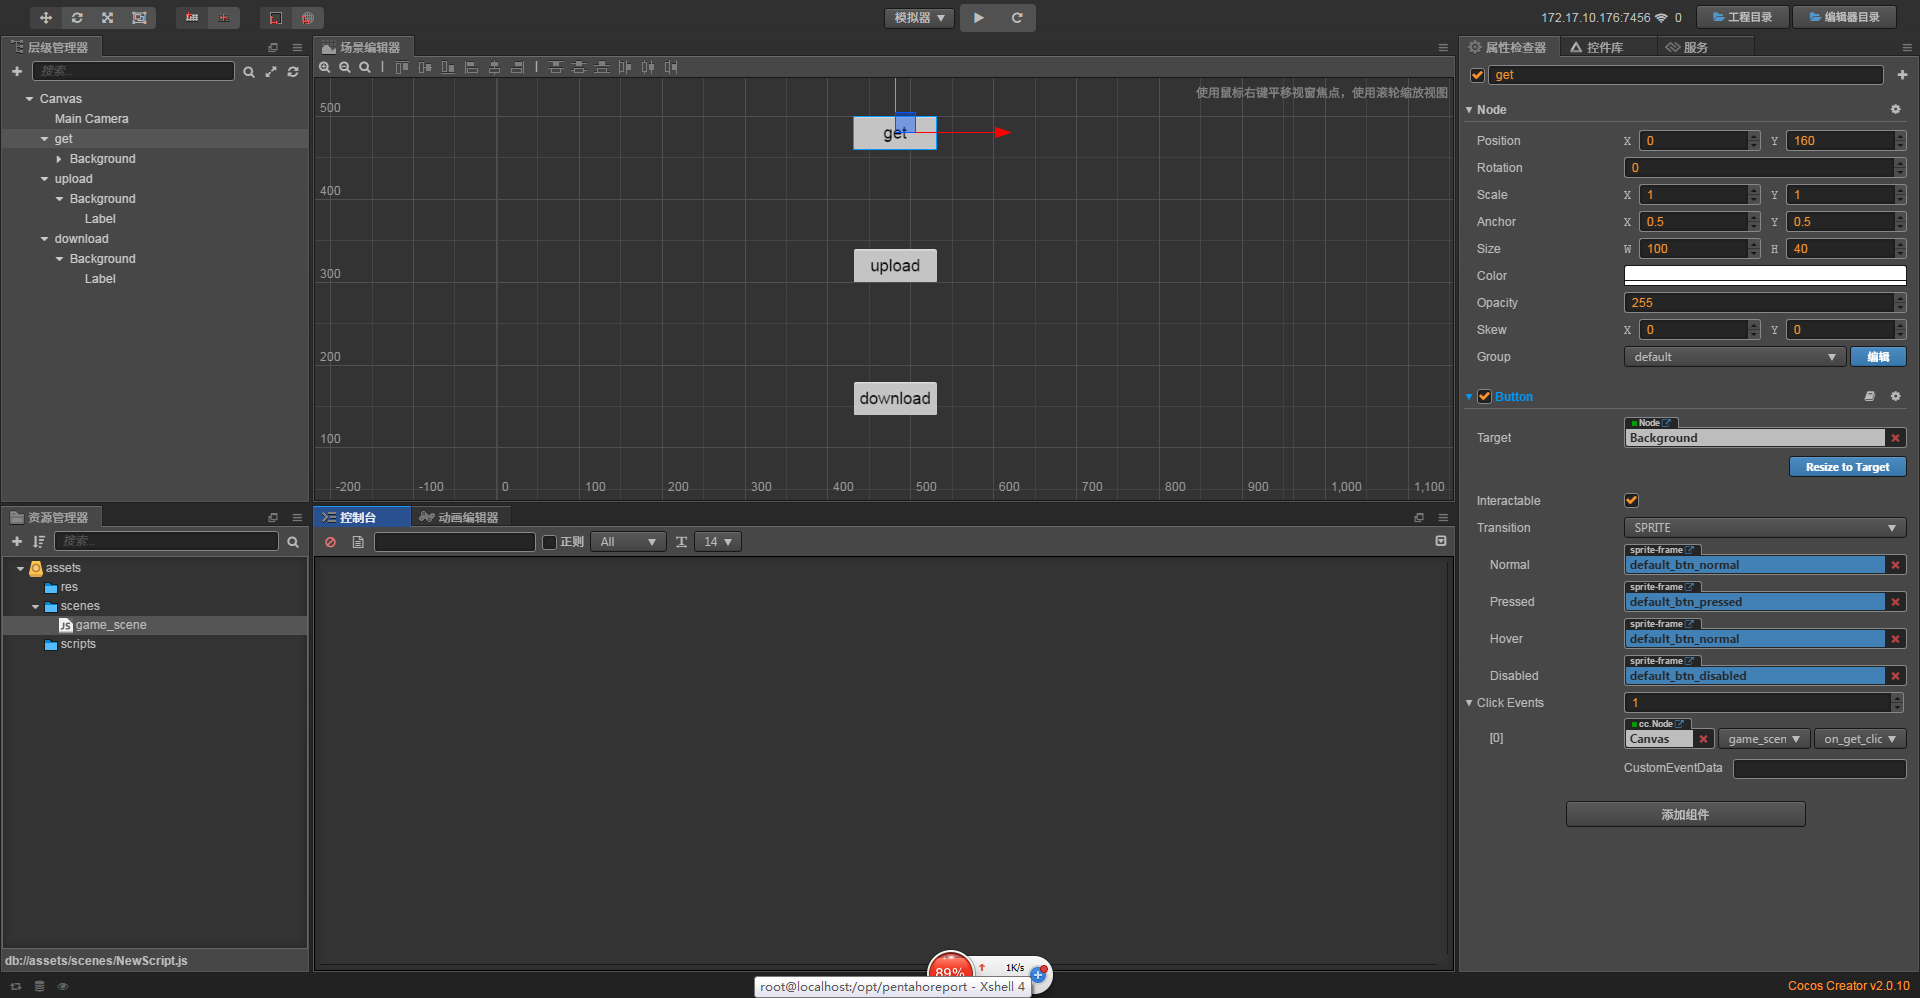
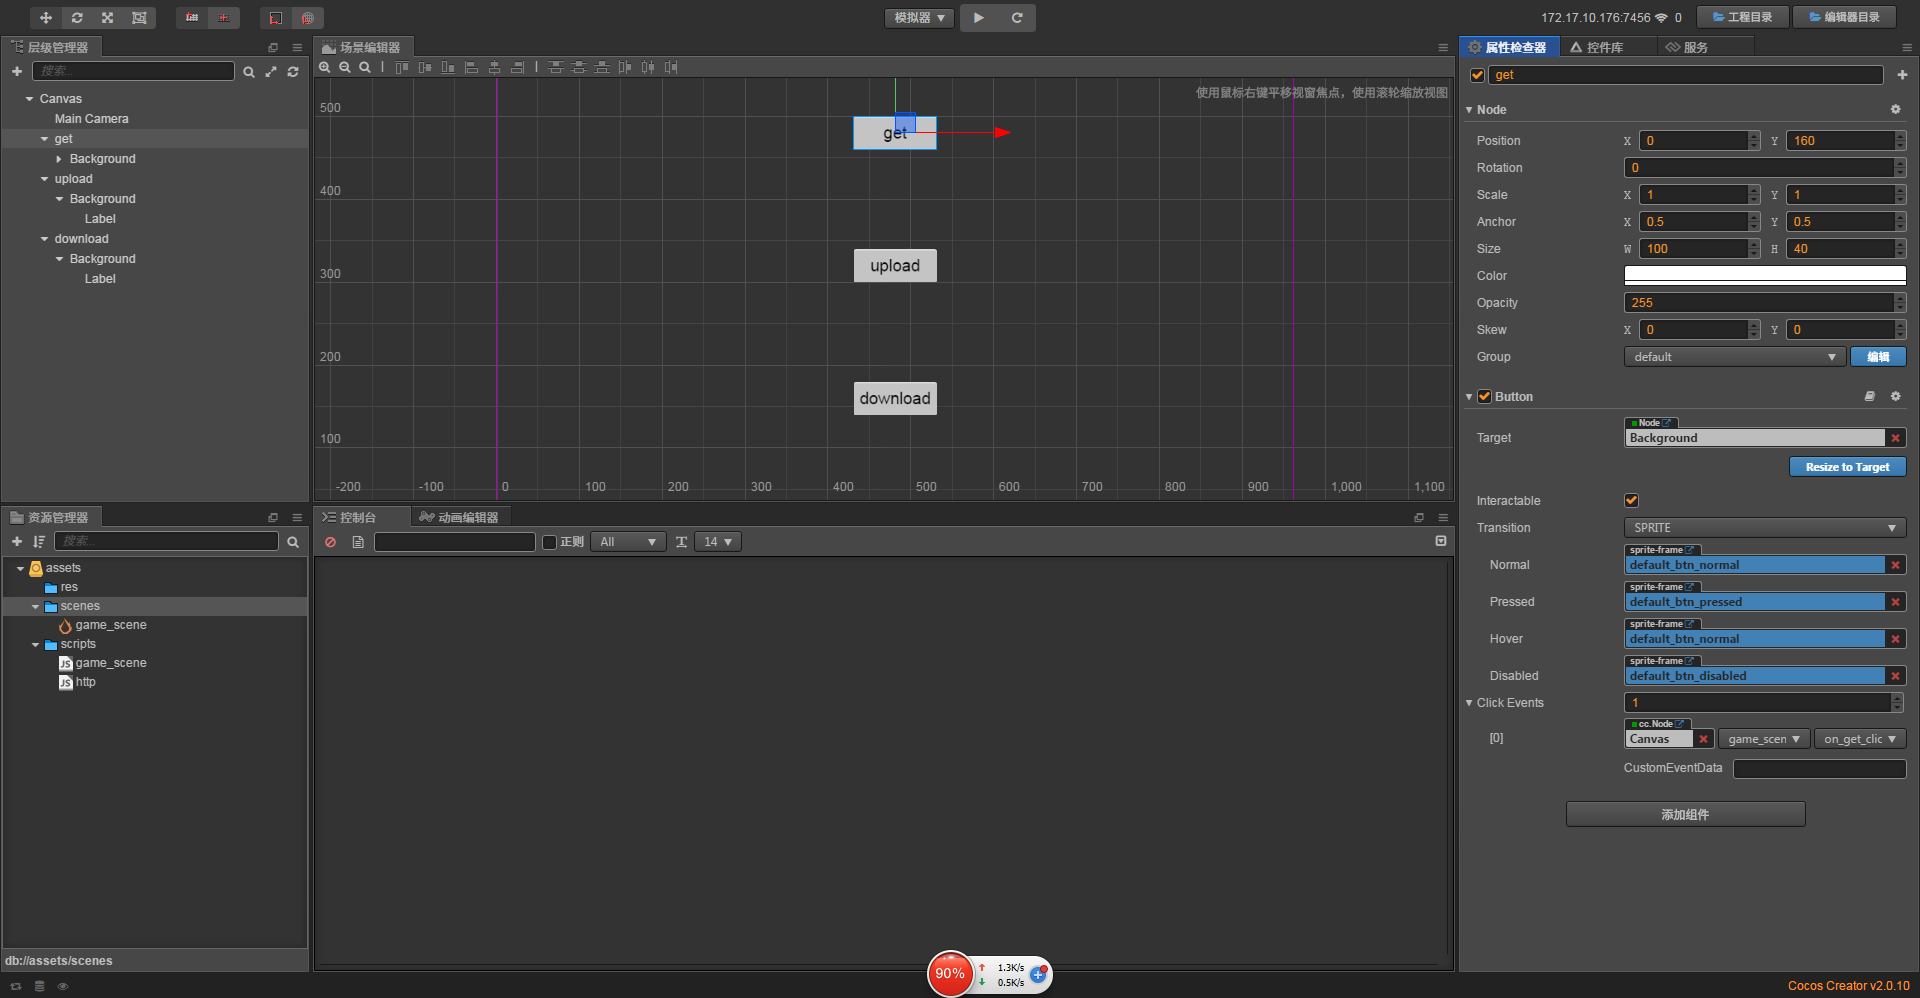
完成获取数据，上传图片练习

diff --git a/day-028-HttpClient/webserver/webserver.js b/day-028-HttpClient/webserver/webserver.js
@@ -16,12 +16,12 @@ app.all('*', function(req, res, next) {
 app.use(express.static(path.join(process.cwd(), "www_root")));
 app.listen(6080);
 
-app.get("/get", function (request, respones) {
+app.get("/get", function (request, response) {
 	console.log(request.query);
-	respones.send("HelloWorld!!!!");
+    response.send("HelloWorld!!!!");
 });
 
-app.post("/upload", function (request, respones) {
+app.post("/upload", function (request, response) {
 	request.now_len = 0;
 	
 	var file_name = "./upload/" + request.query.name;	
@@ -30,25 +30,29 @@ app.post("/upload", function (request, respones) {
 
 	request.on("data", function(data) {
 		request.now_len += data.length;
-		fs.write(fd, data, 0, data.length);
+		fs.write(fd, data, function(){
+
+		});
 	});
 
 	request.on("end", function() {
 		console.log("upload file " + request.query.name + " SUCCESS");
-		fs.close(fd);
+		fs.close(fd, function(){
 
-		respones.send("OK");
+		});
+
+        response.send("OK");
 	});
 });
 
-app.get("/download", function(request, respones) {
+app.get("/download", function(request, response) {
 	var file_name = "./upload/" + request.query.name;
 
 	fs.readFile(file_name, function(err, data) {
 		if (err) {
-			respones.send("file_err !");
+            response.send("file_err !");
 			return;
 		}
-		respones.send(data);
+        response.send(data);
 	});
 });

diff --git a/day-028-HttpClient/01-HttpClient.md b/day-028-HttpClient/01-HttpClient.md
@@ -55,6 +55,66 @@
         
     4. 我们可以先运行下，点击按钮，看下是否绑定到对应的方法上了，事实证明没什么问题
     
-        ![](./images/看控制台打印消息.jpg)       
+        ![](./images/看控制台打印消息.jpg)   
+
+2. 服务器(后端)代码已经写好了，大家可以直接用，进入webserver目录，输入指令`node webserver.js`即可，源码小伙伴们自行研究
+3. 前端也帮大家封装好了http.js，在scripts文件夹中，我们拷贝到res中的scripts文件夹，同样源码小伙伴自行研究
+    * 在game_scene要引用这个http的模块
+    * 具体代码 `const http = require("http");`       
+4. get请求，一般获取数据都是用这个
+    1. 编写代码
+        ```
+        on_get_click(){
+            console.log("get");
+            http.get("http://localhost:6080", "/get", "name=gqf&age=27", function(err, ret){
+                if(err){
+                    console.log(err)
+                    return;
+                }
+                console.log(ret);
+            })
+        },
+        ```
+    2. 运行看结果
+        1. 模拟器的控制台收到了服务器返回的消息
+        
+            ![](./images/get请求服务器给出了回应.png)   
+            
+        2. 后端也收到了前端的信息 
+        
+            ![](./images/后端打印了前端的信息.jpg)      
+        
+5. upload上传，上传一般用post
+    1. 有个简单的准备工作
+        * 这里在images里提供了个logo的图片
+        * 在第26天的时候我们学习了[本地文件的读写](../day-026-本地文件读写/00-本章目录.md),里面介绍了什么是读写路径
+        * 我们把logo图片放在读写路径下
+        
+            ![](./images/把要上传的素材准备好.jpg)
+            
+        * 后端项目中有个upload的文件夹，为了测试我们要把里面的文件清空下    
+            
+    2. 编写代码
+        ```
+        on_upload_click(){
+            // 测试只能在native平台
+            
+            let path = jsb.fileUtils.getWritablePath();
+            let fileData = jsb.fileUtils.getDataFromFile(path + "logo.jpg");
+    
+            
+            http.post("http://127.0.0.1:6080", "/upload", "name=upload_test.jpg", fileData, function(err, ret) {
+                if(err) {
+                    console.log(err);
+                    return;
+                }
+    
+                console.log(ret);
+            });
+        },
+        ```
+    3. 运行后看到图片的确上传成功~    
+
+6. download下载，下载一般用get                    
 
     
